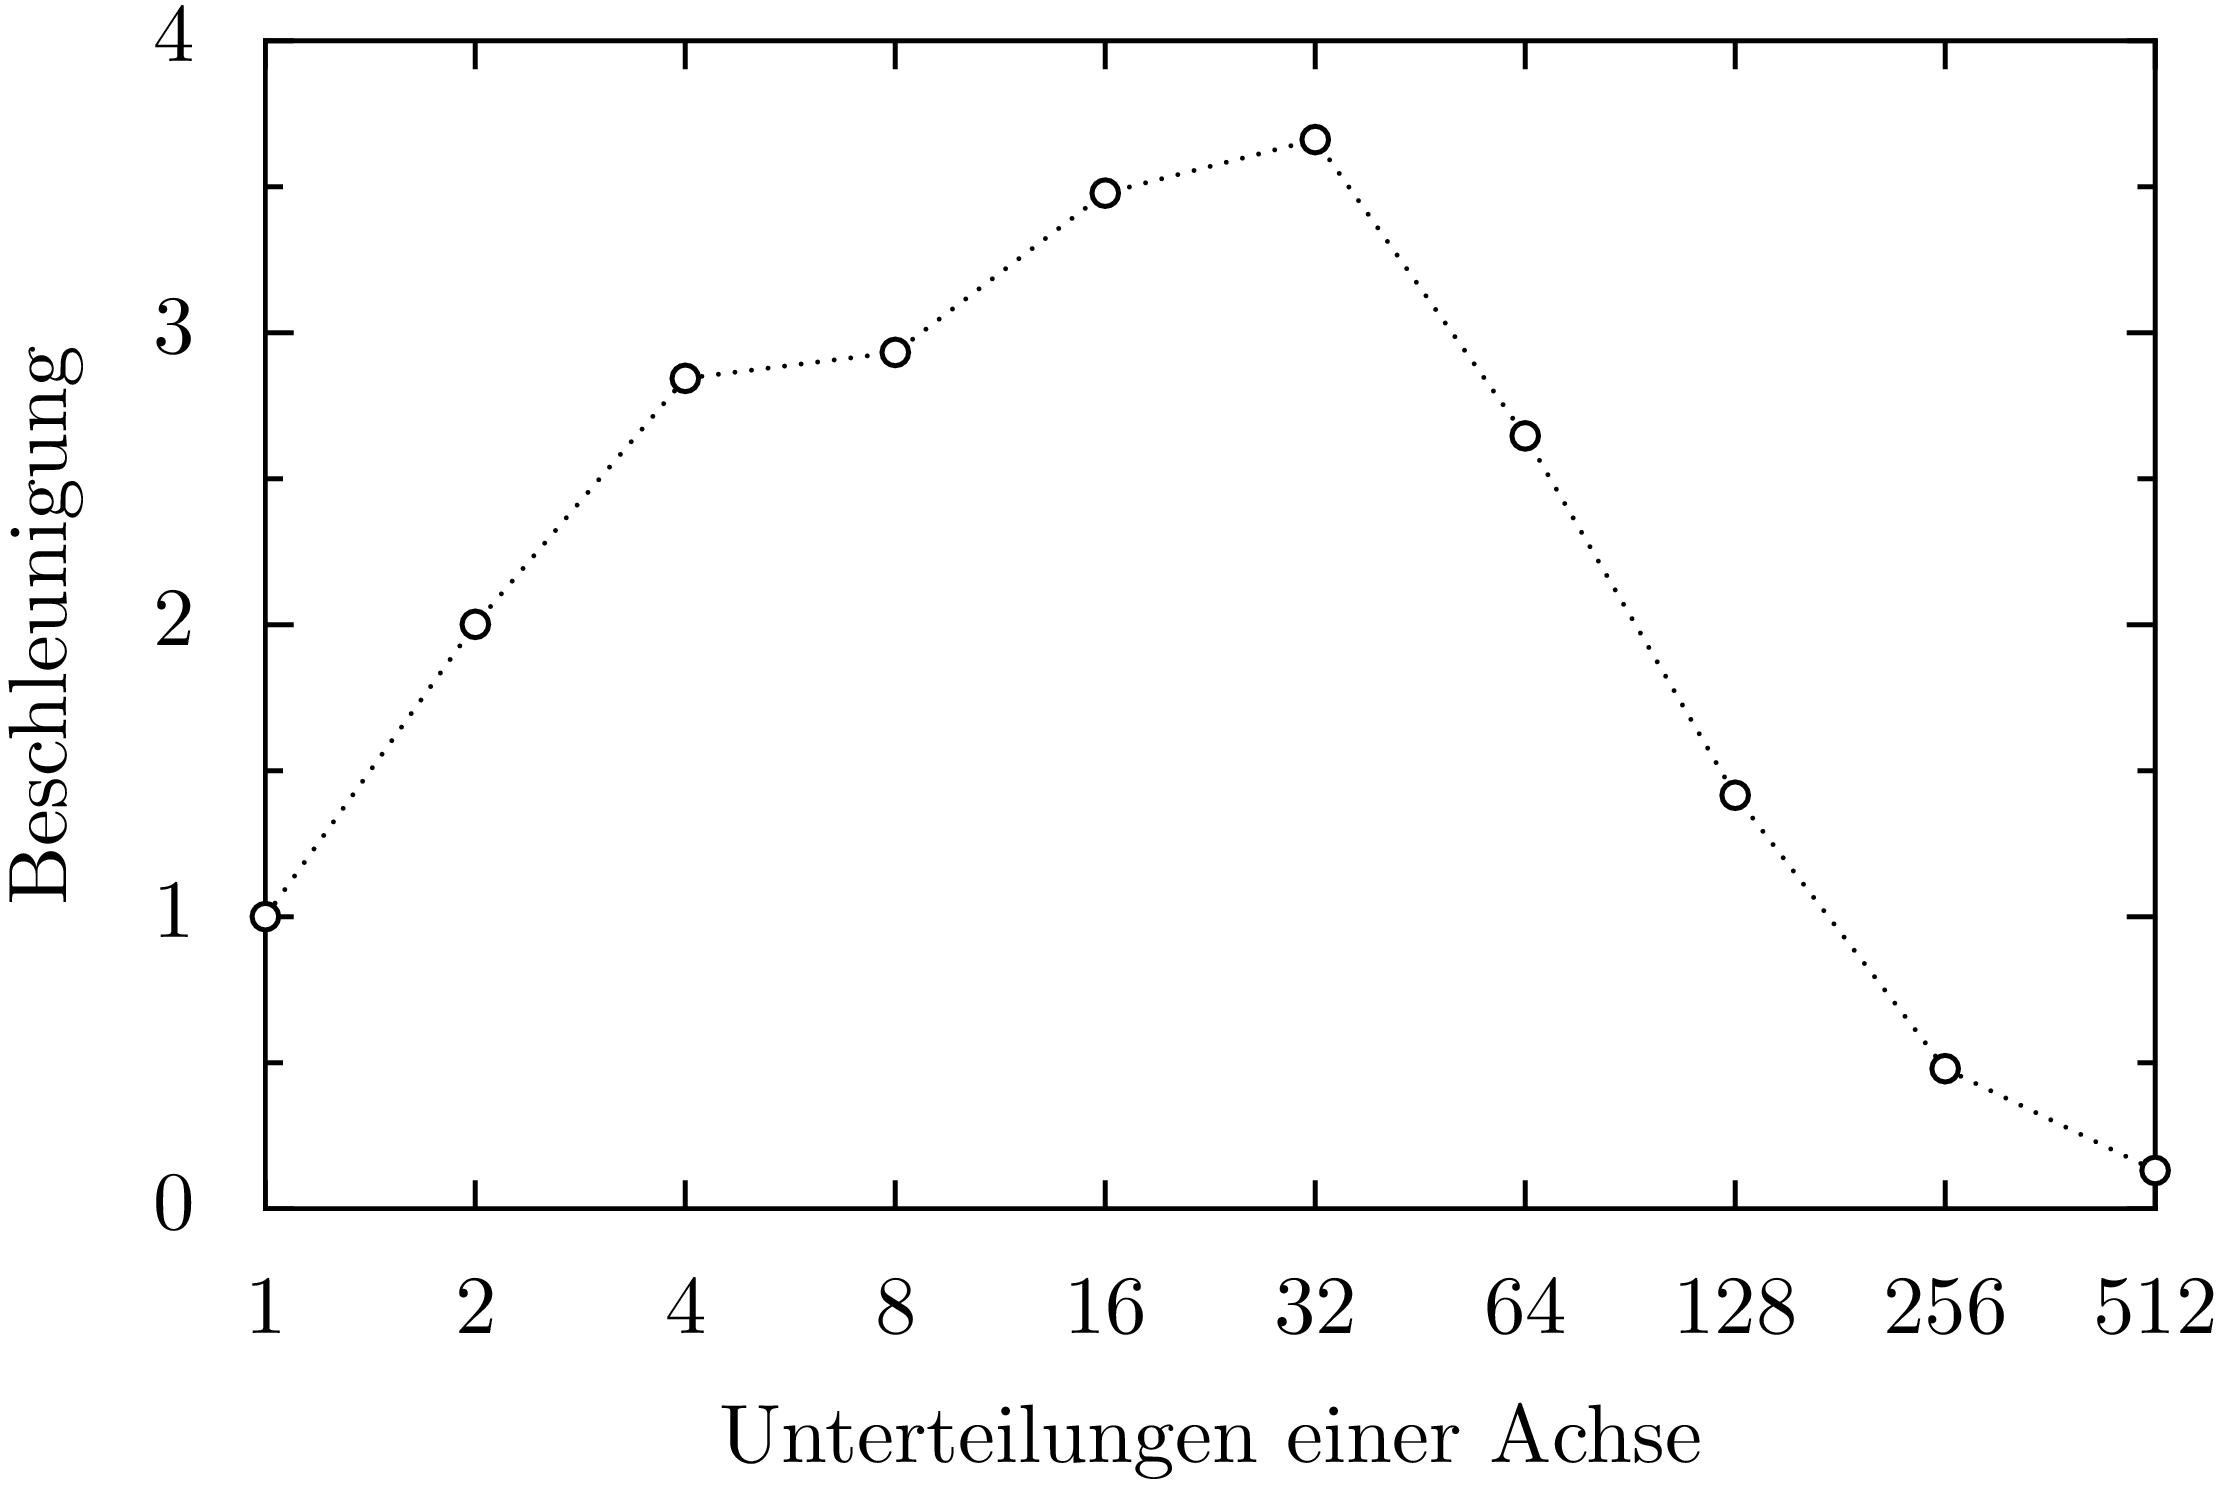
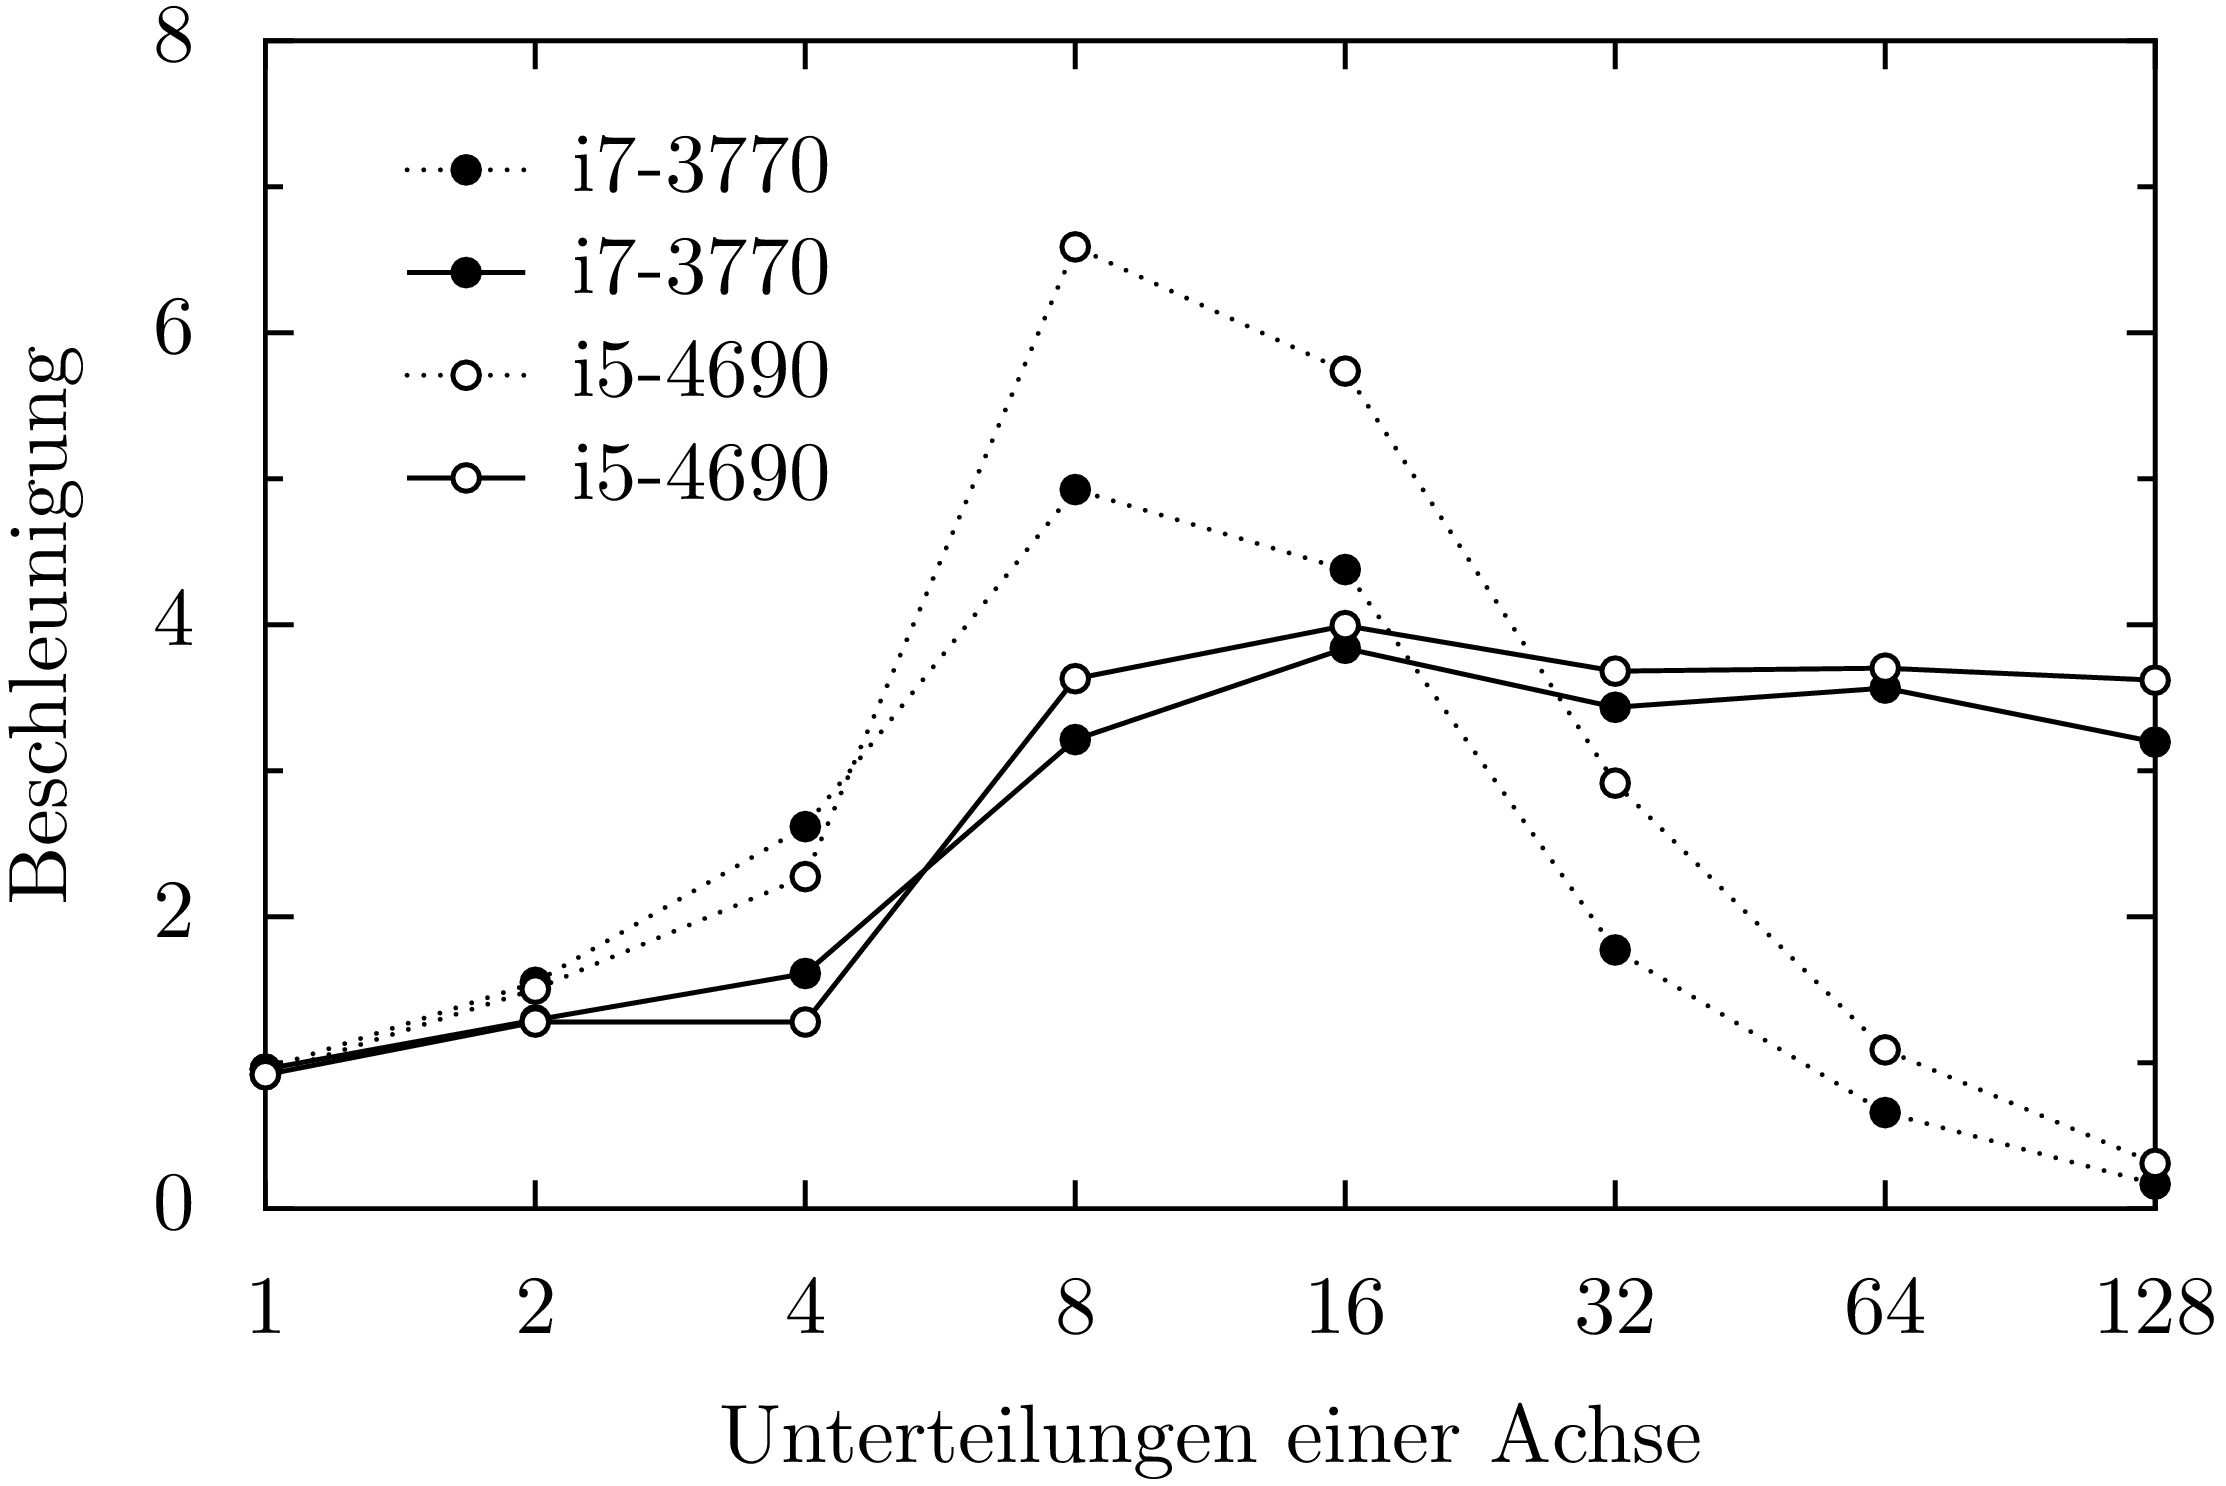
acceleration for different cpus

diff --git a/manuskript/images/parallel/parallel_time.py b/manuskript/images/parallel/parallel_time.py
@@ -1,69 +1,36 @@
-from concurrent import futures
-from functools import partial
-from itertools import product
-import os
-import time
-
-import numpy as np
 from pyx import color, deco, graph, style
 
-def mandelbrot_iteration(niter, nx, ny, c):
-    start = time.time()
-    z = np.zeros_like(c)
-    result = np.zeros(c.shape, dtype=int)
-    for n in range(niter):
-        notdone = np.abs(z) < 2
-        result[notdone] = n
-        z[notdone] = z[notdone]**2+c[notdone]
-    ende = time.time()
-    return (nx, ny, os.getpid(), start, ende, result)
-
-def mandelbrot(xmin, xmax, width, ymin, ymax, height,
-               npts, ndiv, niter, max_workers=4):
-    y, x = np.ogrid[ymin:ymax:height*1j, xmin:xmax:width*1j]
-    c = x+1j*y
-    nlen = npts//ndiv
-    clist = [(nx, ny, c[nx*nlen:(nx+1)*nlen, ny*nlen:(ny+1)*nlen])
-             for nx, ny in product(range(ndiv), repeat=2)]
-    start = time.time()
-    ex = futures.ProcessPoolExecutor(max_workers=max_workers)
-    wait_for = [ex.submit(partial(mandelbrot_iteration, niter), nx, ny, c)
-                for (nx, ny, c) in clist]
-    results = [f.result()[0:5] for f in futures.as_completed(wait_for)]
-    ende = time.time()
-    processids = sorted(set([r[2] for r in results]))
-    processdict = dict(zip(processids, range(len(processids))))
-    return (len(processdict), start, ende,
-            [(processdict[r[2]], r[3]-start, r[4]-start) for r in results])
-
-npts = 2048
-xmin = -2
-xmax = 1
-width = npts
-ymin = -1.5
-ymax = 1.5
-height = npts
-niter = 2000
-
-data = []
-for nr, ndiv in enumerate((1, 2, 4, 8, 16, 32, 64, 128, 256, 512)):
-    nrproc, start, ende, result = mandelbrot(xmin, xmax, width, ymin, ymax, height,
-                      npts, ndiv, niter)
-    print(ndiv, ende-start)
-    data.append((ndiv, ende-start))
-
-acceleration = [(ndiv, data[0][1]/d) for ndiv, d in data]
+cpus = ['i7-3770', 'i5-4690']
+data = {}
+for cpu in cpus:
+    data[cpu] = []
+    with open(cpu+'.dat') as fh:
+        for line in fh:
+            nr, t1, t4 = line.rstrip('\n').split()
+            nr = int(nr)
+            t1 = float(t1)
+            t4 = float(t4)
+            data[cpu].append((t1, t4))
+    data[cpu] = [(2**nr, data[cpu][0][0]/t4, t1/t4)
+                 for nr, (t1, t4) in enumerate(data[cpu])]
 
 logparter = graph.axis.parter.log(tickpreexps=
                 [graph.axis.parter.preexp([graph.axis.tick.rational(1, 1)], 2)])
 g = graph.graphxy(width=8,
-        x=graph.axis.log(min=data[0][0], max=data[-1][0], parter=logparter,
+        x=graph.axis.log(min=1, max=128, parter=logparter,
                          title='Unterteilungen einer Achse'),
-        y=graph.axis.lin(min=0, max=4, title='Beschleunigung'))
-g.plot(graph.data.points(acceleration, x=1, y=2),
-        [graph.style.line(lineattrs=[style.linestyle.dotted]),
-	 graph.style.symbol(symbol=graph.style.symbol.circle,
-			    size=0.1, symbolattrs=[deco.filled([color.grey(1)])])
-	])
+        y=graph.axis.lin(min=0, title='Beschleunigung'),
+        key=graph.key.key(pos="tl"))
+for nr, cpu in enumerate(cpus):
+    g.plot(graph.data.points(data[cpu], x=1, y=2, title=cpu),
+            [graph.style.line(lineattrs=[style.linestyle.dotted]),
+             graph.style.symbol(symbol=graph.style.symbol.circle,
+    	         size=0.1, symbolattrs=[deco.filled([color.grey(nr)])])
+	    ])
+    g.plot(graph.data.points(data[cpu], x=1, y=3, title=cpu),
+            [graph.style.line(lineattrs=[style.linestyle.solid]),
+             graph.style.symbol(symbol=graph.style.symbol.circle,
+		 size=0.1, symbolattrs=[deco.filled([color.grey(nr)])])
+            ])
 g.writePDFfile()
 g.writeGSfile(device="png16m", resolution=600)

diff --git a/manuskript/images/parallel/parallel_timing.py b/manuskript/images/parallel/parallel_timing.py
@@ -1,0 +1,63 @@
+from concurrent import futures
+from itertools import product
+from functools import partial
+import time
+
+import numpy as np
+
+def mandelbrot_tile(nitermax, nx, ny, cx, cy):
+    x = np.zeros_like(cx)
+    y = np.zeros_like(cx)
+    data = np.zeros(cx.shape, dtype=np.int)
+    for n in range(nitermax):
+        x2 = x*x
+        y2 = y*y
+        notdone = x2+y2 < 4
+        data[notdone] = n
+        x[notdone], y[notdone] = (x2[notdone]-y2[notdone]+cx[notdone],
+                                  2*x[notdone]*y[notdone]+cy[notdone])
+    return (nx, ny, data)
+
+def mandelbrot(xmin, xmax, ymin, ymax, npts, nitermax, ndiv, max_workers=4):
+    start = time.time()
+    cy, cx = np.mgrid[ymin:ymax:npts*1j, xmin:xmax:npts*1j]
+    nlen = npts//ndiv
+    paramlist = [(nx, ny,
+                  cx[nx*nlen:(nx+1)*nlen, ny*nlen:(ny+1)*nlen],
+                  cy[nx*nlen:(nx+1)*nlen, ny*nlen:(ny+1)*nlen])
+                 for nx, ny in product(range(ndiv), repeat=2)]
+    with futures.ProcessPoolExecutor(max_workers=max_workers) as executors:
+        wait_for = [executors.submit(partial(mandelbrot_tile, nitermax),
+                                             nx, ny, cx, cy)
+                    for (nx, ny, cx, cy) in paramlist]
+        results = [f.result() for f in futures.as_completed(wait_for)]
+    data = np.zeros(cx.shape, dtype=np.int)
+    for nx, ny, result in results:
+        data[nx*nlen:(nx+1)*nlen, ny*nlen:(ny+1)*nlen] = result
+    return time.time()-start
+
+def mandelbrot_single(xmin, xmax, ymin, ymax, npts, nitermax, ndiv):
+    start = time.time()
+    cy, cx = np.mgrid[ymin:ymax:npts*1j, xmin:xmax:npts*1j]
+    nlen = npts//ndiv
+    paramlist = [(nx, ny,
+                  cx[nx*nlen:(nx+1)*nlen, ny*nlen:(ny+1)*nlen],
+                  cy[nx*nlen:(nx+1)*nlen, ny*nlen:(ny+1)*nlen])
+                 for nx, ny in product(range(ndiv), repeat=2)]
+    data = np.zeros(cx.shape, dtype=np.int)
+    for nx, ny, cx, cy in paramlist:
+        nx, ny, result = mandelbrot_tile(nitermax, nx, ny, cx, cy)
+        data[nx*nlen:(nx+1)*nlen, ny*nlen:(ny+1)*nlen] = result
+    return time.time()-start
+
+nitermax = 2000
+npts = 1024
+xmin = -2
+xmax = 1
+ymin = -1.5
+ymax = 1.5
+
+for ndiv in (1, 2, 4, 8, 16, 32, 64, 128,):
+    t1 = mandelbrot_single(xmin, xmax, ymin, ymax, npts, nitermax, ndiv)
+    t4 = mandelbrot(xmin, xmax, ymin, ymax, npts, nitermax, ndiv)
+    print(ndiv, t1, t4)
